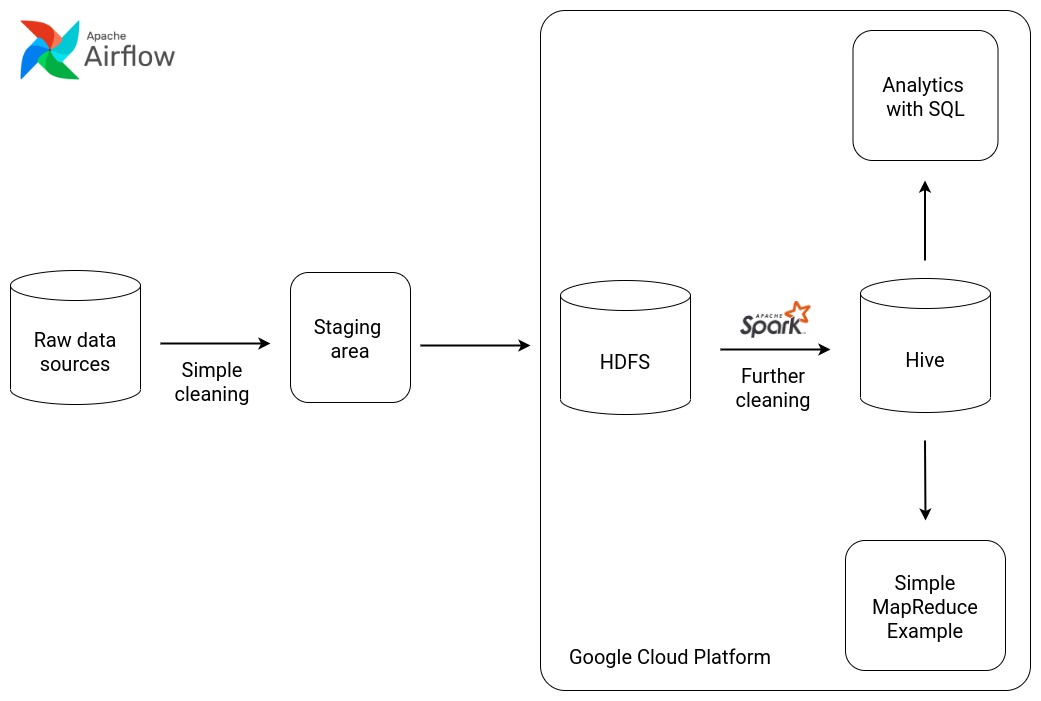
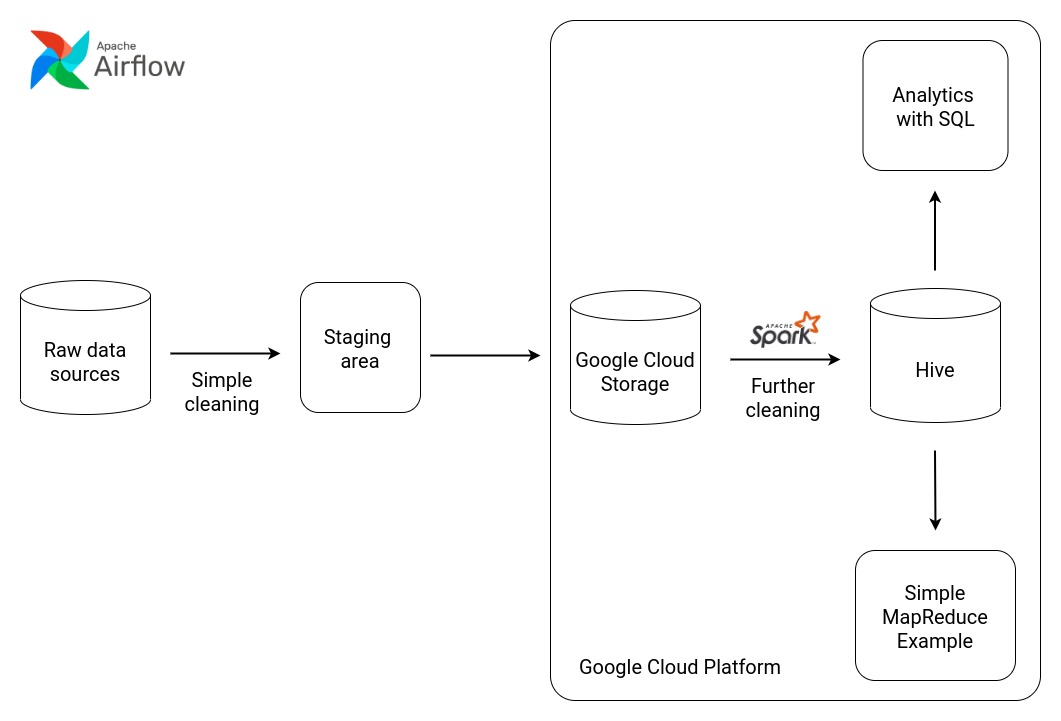
Add upload to GCS task

diff --git a/src/dags/japan_trade_dag.py b/src/dags/japan_trade_dag.py
@@ -8,7 +8,7 @@ from airflow.operators.python import PythonOperator
 
 import country_data
 import hs_data
-import hadoop
+import gcp
 
 STAGING_PATH = os.environ['AIRFLOW_STAGING_PATH']
 STAGED_PATH = os.path.join(STAGING_PATH, 'staged')
@@ -28,7 +28,7 @@ with DAG(
 
   process_country_data = country_data.process_country_data
   process_hs_data = hs_data.process_hs_data
-  upload_to_hdfs = hadoop.upload_staging_hdfs
+  upload_to_gcs = gcp.upload_staging_gcs
 
-  prepare_fs >> download_country_data >> process_country_data >> upload_to_hdfs
-  prepare_fs >> download_hs_data >> process_hs_data >> upload_to_hdfs
+  prepare_fs >> download_country_data >> process_country_data >> upload_to_gcs
+  prepare_fs >> download_hs_data >> process_hs_data >> upload_to_gcs

diff --git a/src/dags/gcp.py b/src/dags/gcp.py
@@ -1,0 +1,18 @@
+import os 
+from airflow.operators.bash import BashOperator
+from airflow.operators.python import PythonOperator
+from airflow.providers.google.cloud.transfers.local_to_gcs import LocalFilesystemToGCSOperator
+
+GCP_PROJECT_ID = os.environ['GCP_PROJECT_ID']
+GCP_GCS_BUCKET = os.environ['GCP_GCS_BUCKET']
+STAGING_PATH = os.environ['AIRFLOW_STAGING_PATH']
+STAGED_PATH = os.path.join(STAGING_PATH, 'staged')
+
+# Upload staging parquet files to GCS
+upload_staging_gcs = LocalFilesystemToGCSOperator(
+  task_id='upload_to_gcs',
+  src=[os.path.join(STAGED_PATH, f) for f in os.listdir(STAGED_PATH)],
+  dst='japan_trade_staged/',
+  bucket=GCP_GCS_BUCKET,
+  gcp_conn_id='gcp_connection'
+)

diff --git a/README.md b/README.md
@@ -16,3 +16,32 @@ Projected final pipeline
 - Google Cloud Services
 
 ## How to
+
+### Setup GCS
+1. Create the following objects in GCP:
+   - A storage bucket.
+   - A Dataproc cluster.
+2. Download your GCP credential `json` file and place it in `~/.google/credentials/google_credentials.json`.
+
+### Setup local Airflow environment
+1. `cd src` 
+2. `mkdir -p ./logs ./plugins`
+3. `mv .env-template .env`
+4. Open `.env` file and fill in neccessary information about your GCP project and storage bucket.
+5. `docker compose build`
+6. `docker compose up`
+7. Go to `localhost:8080` (Airflow Web UI), open **Admin > Connection** and add a **Google Cloud** connection with the following information: 
+   - Name: `gcp_connection`
+   - Credential file: `/.google/credentials/google_credentials.json`
+   - Project ID: `<YOUR PROJECT ID>`
+
+### Run the pipeline 
+1. Manually load the file `custom_1988_2020.csv` (from the _first_ dataset listed above) to `gs://japan_trade_staged/` (due to practical limitations of my Internet connection, this should be done manually).
+2. Run the DAG from the local Airflow dashboard.
+3. Done 
+
+### Manual works 
+The data has been transformed and stored to Apache Hive for further analytics. Below steps are expected to be done manually.
+
+1. Some analytics with PySpark
+2. A simple MapReduce Job
